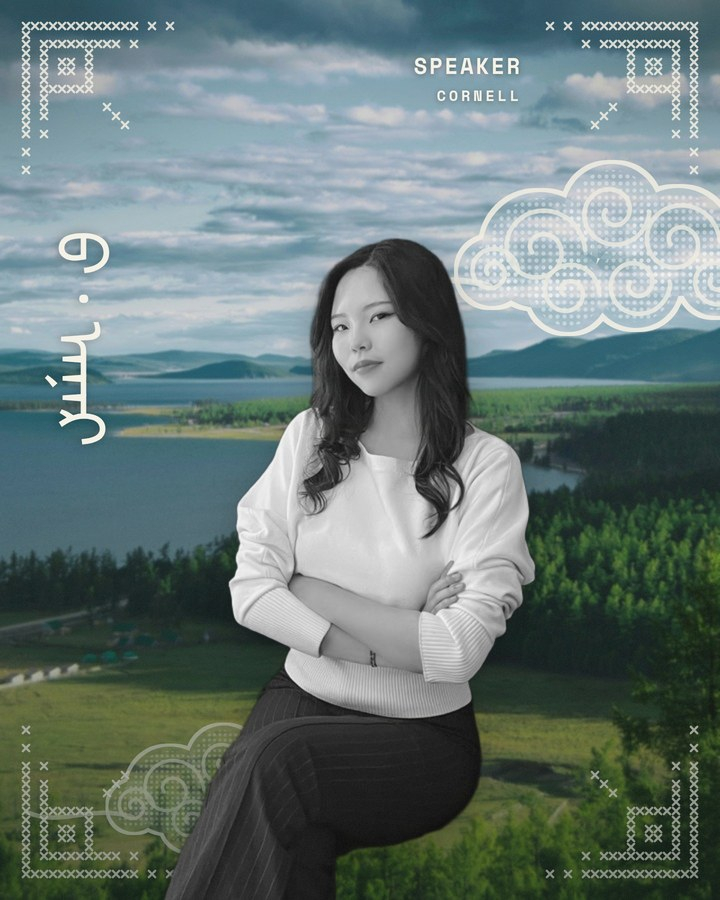
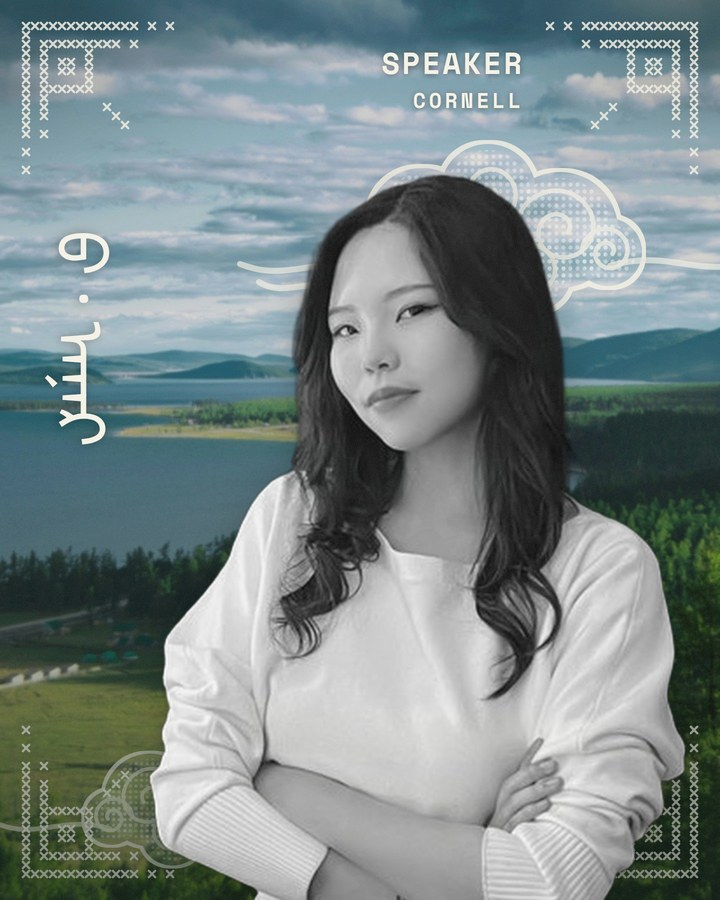
Speakers: zoom Anar and Tsolmon to match the other cards
Claude-Session: https://claude.ai/code/session_015w2YeaPuoH2UidzmstFP66

diff --git a/index.html b/index.html
@@ -302,7 +302,7 @@
         </div>
         <div class="speaker">
           <div class="speaker__photo">
-            <img src="assets/img/speaker-anar.jpg?v=2" alt="Anar Battogtokh" loading="lazy">
+            <img src="assets/img/speaker-anar.jpg?v=3" alt="Anar Battogtokh" loading="lazy">
             <span class="speaker__school"><img src="assets/img/schools/cornell.svg" alt="Cornell University"></span>
           </div>
           <p class="speaker__name">Anar Battogtokh</p>
@@ -310,7 +310,7 @@
         </div>
         <div class="speaker">
           <div class="speaker__photo">
-            <img src="assets/img/speaker-tsolmon.jpg?v=2" alt="Tsolmon Baasantsogt" loading="lazy">
+            <img src="assets/img/speaker-tsolmon.jpg?v=3" alt="Tsolmon Baasantsogt" loading="lazy">
             <span class="speaker__school"><img src="assets/img/schools/yonsei.png?v=2" alt="Yonsei University"></span>
           </div>
           <p class="speaker__name">Tsolmon Baasantsogt</p>
